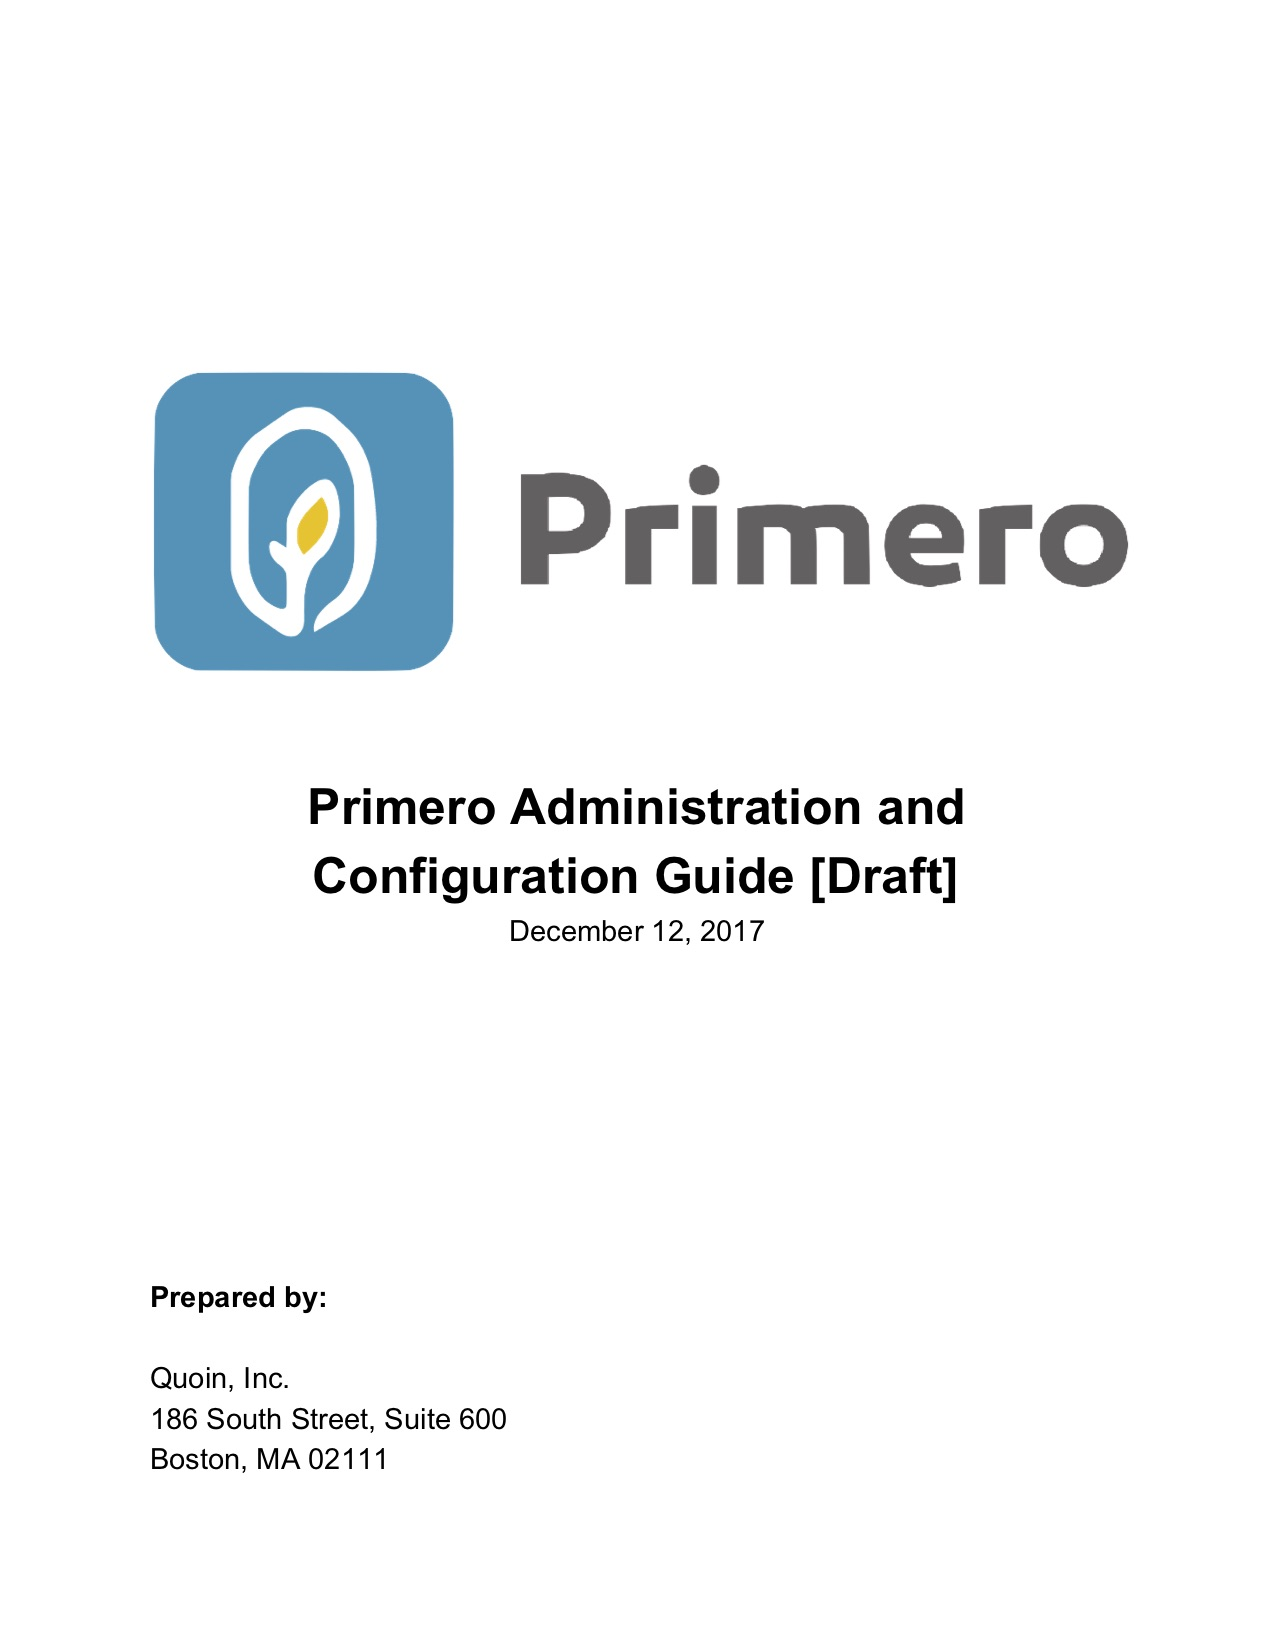
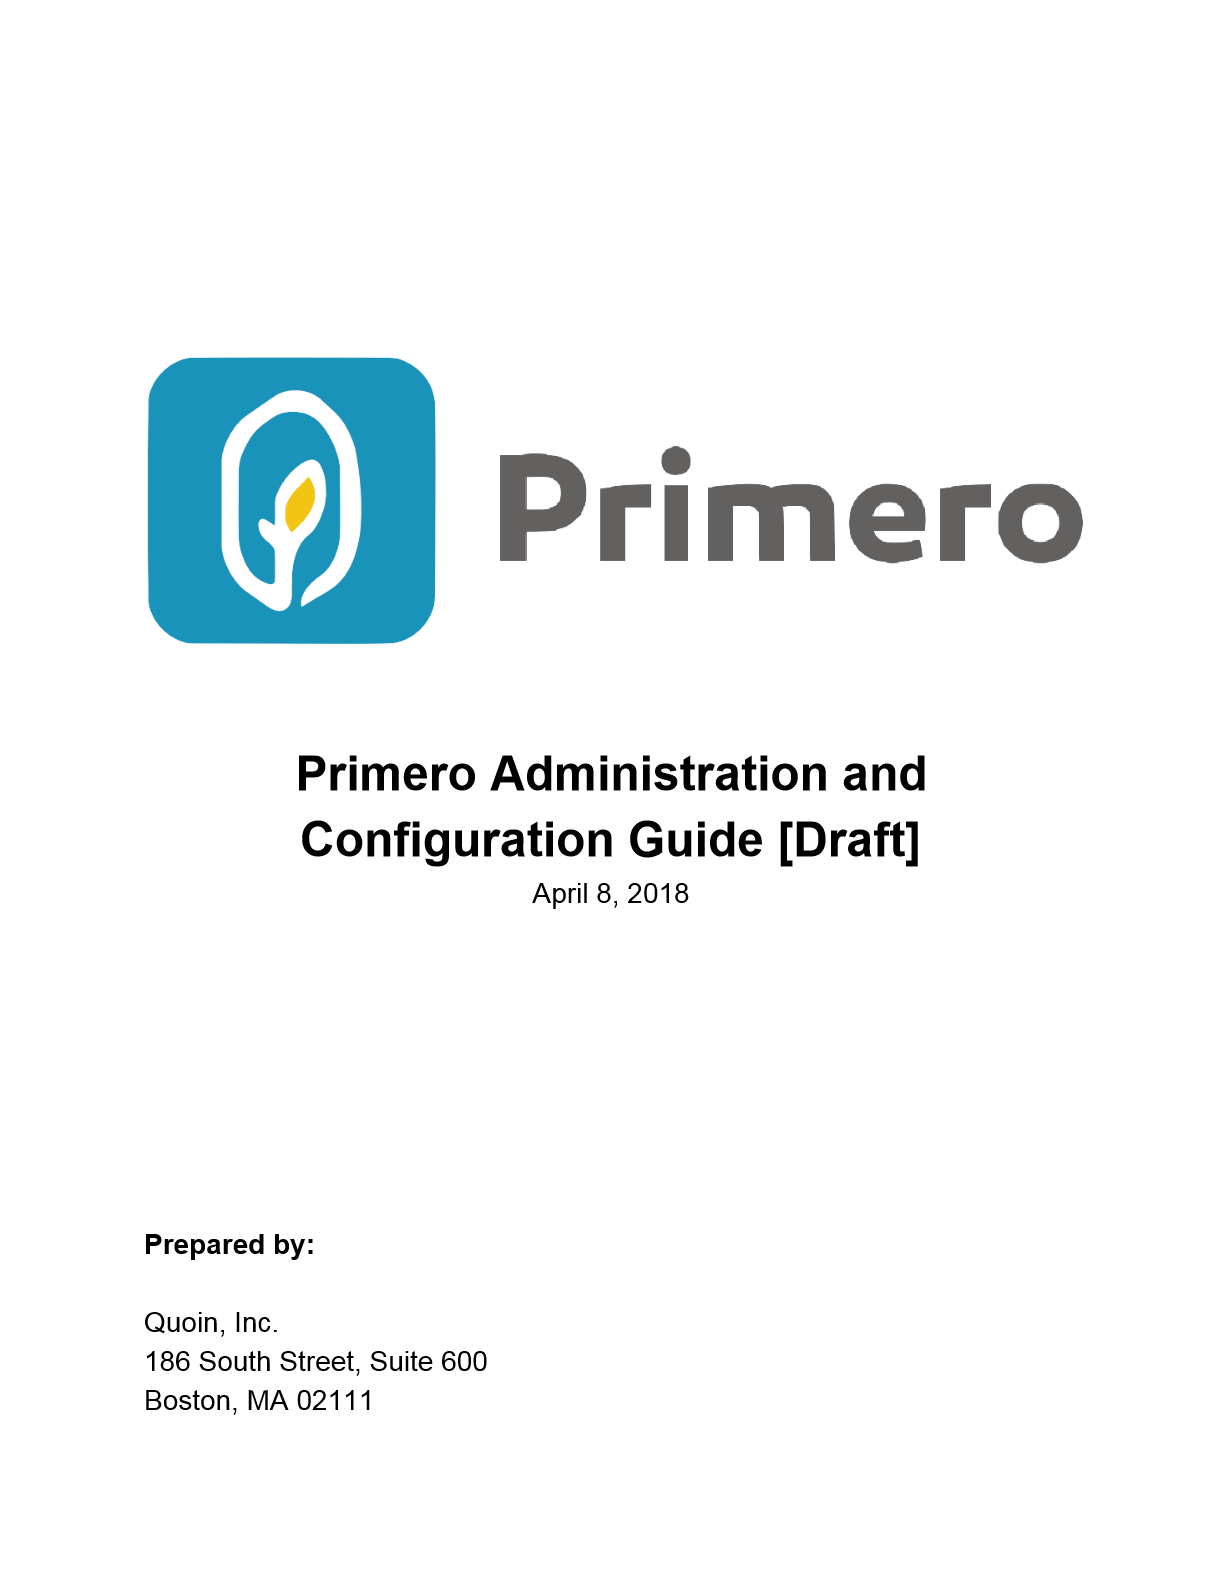
LB-252: Made some corrections, changed the cover and table of contents.

diff --git a/PrimeroAdministrationandConfigurationGuide.md b/PrimeroAdministrationandConfigurationGuide.md
@@ -157,9 +157,9 @@ A **Superuser** role is a role has the all-encompassing "manage" permission for 
 
 The second special type of role is the **User Admin** role. A user admin role has less power than a superuser role, but is defined as having the all-encompassing "manage" permission for **Roles**, **Users**, **User Groups**, **Agencies**, **System Settings**, and **Forms and Lookups**. Once again, a user admin *user* is a user who has a user admin *role*. Only superusers and other admin users can view or edit the attributes of user admin users. Similarly, only superusers can edit a user admin role.
 
-### The "Admin Read" attribute
+### The Agency Read Attribute
 
-Another specialized permission level exists in the **Admin Read** permission given to a user role with respect to that role's access to users. This permission level only exists with respect to users, and denotes that the given role can perform actions on users *only within the current user's user group*. As an example, suppose an administrator named Ahmad at a local NGO named "ABC" needs to be able to manage the organization's users: resetting passwords, disabling users, and creating new user accounts. Ahmad's user account gets a role with the admin read permission for users, as well as the read and write permissions. What this means is that Ahmad will only be able to view and edit user accounts which, like Ahmad's user account, have their agency set to "ABC." This means Ahmad can only access, and is only responsible for, cases within his organization. An administrator attempting to create a role like Ahmad's would choose the options in the picture below when creating the role.
+Another specialized permission level exists in the **Agency Read** permission given to a user role with respect to that role's access to users. This permission level only exists with respect to users and denotes that the given role can perform actions on users *only within the current user's agency*. As an example, suppose an administrator named Ahmad at a local NGO named "ABC" needs to be able to manage the organization's users: resetting passwords, disabling users, and creating new user accounts. Ahmad's user account gets a role with the read, write, and agency read permission for users. Because of this, Ahmad will only be able to view and edit user accounts which, like Ahmad's user account, have their agency set to "ABC." This means Ahmad can only access, and is only responsible for, cases within his organization. An administrator attempting to create a role like Ahmad's would choose the options in the picture below when creating the role.
 
 ![](img/image118.png)
 
@@ -250,7 +250,7 @@ It is important to note that once an agency has been created, it cannot be delet
 
 * The agency is a required field as well.
 
-Please note that, while users may sometimes be able to edit their own user accounts, no user may edit their own roles, user groups, modules, or agency. Primero uses this precaution to ensure users do not grant themselves additional power and endanger the data confidentiality of clients.
+Please note that, while users may sometimes be able to edit their own user accounts, no user may edit which roles, user groups, modules, or agency are assigned to their user account. Primero uses this precaution to ensure users do not grant themselves additional power and endanger the data confidentiality of clients.
 
 
 To create a new User, follow these steps:

diff --git a/SUMMARY.md b/SUMMARY.md
@@ -27,6 +27,10 @@
 
 	*  [*Creating and Editing User Roles*](PrimeroAdministrationandConfigurationGuide.md#creating-and-editing-user-roles)
 
+		*  [*Superusers and User Admins*](PrimeroAdministrationandConfigurationGuide.md#superusers-and-user-admins)
+
+		*  [*The Agency Read Attribute*](PrimeroAdministrationandConfigurationGuide.md#the-agency-read-attribute)
+
 	*  [*Creating and Editing User Groups*](PrimeroAdministrationandConfigurationGuide.md#creating-and-editing-user-groups)
 
 	*  [*Creating and Editing Agencies*](PrimeroAdministrationandConfigurationGuide.md#creating-and-editing-agencies)
